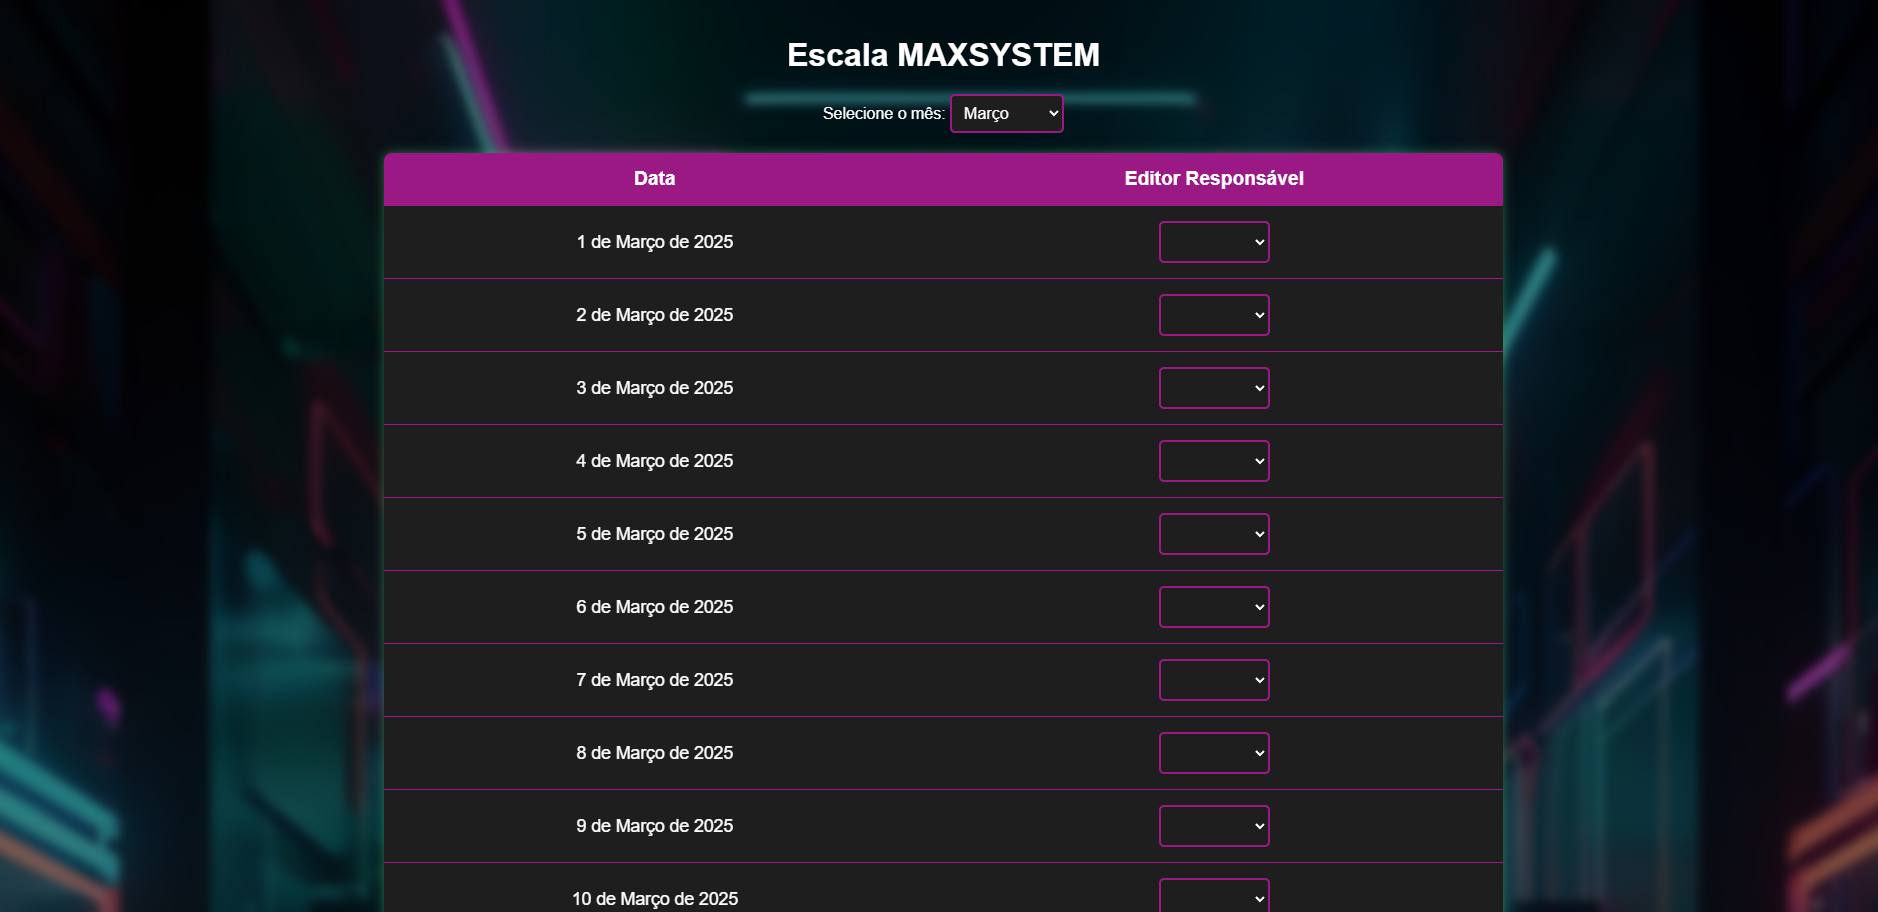
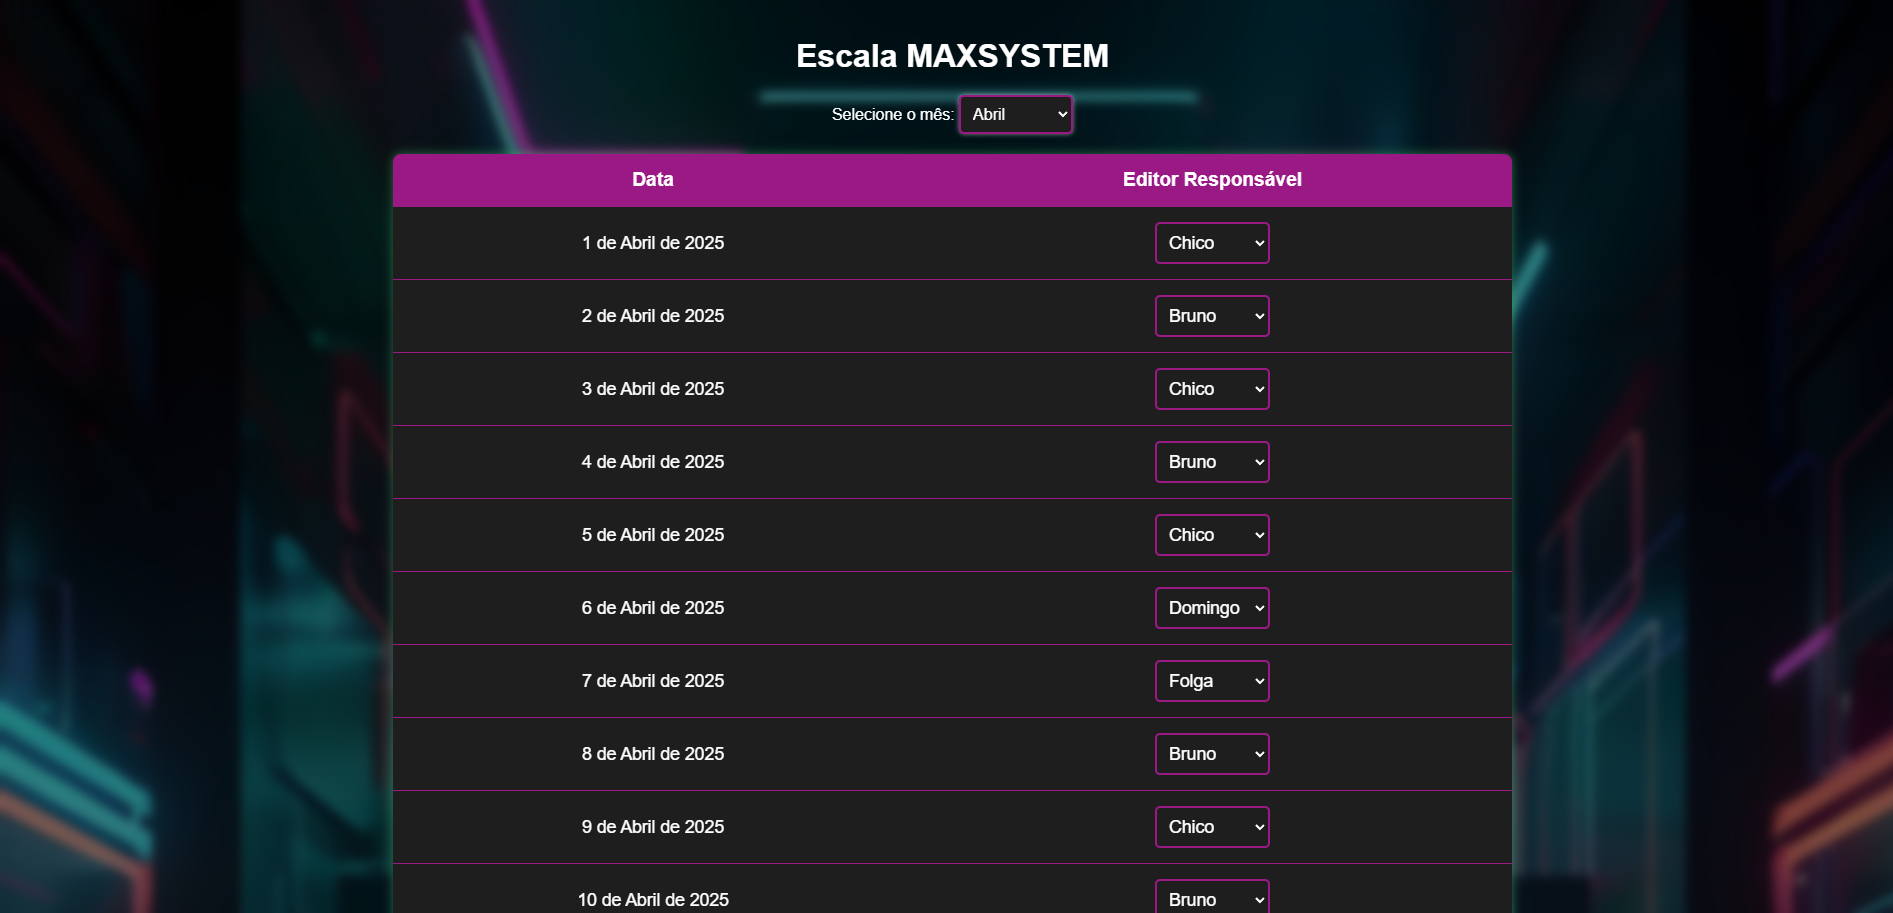
projeto fila add

diff --git a/projetos.html b/projetos.html
@@ -137,6 +137,18 @@
             >Acessar</a>
           <a href="https://github.com/Dev-BrunoOliveira/LARANJODINA" target="_blank" class="btn">Repositório</a>
         </div>
+        <div class="card">
+          <img src="./IMG/FILA.png" alt="fila-editores" />
+          <h3>Fila de Editores</h3>
+          <p> Através dessa fila organizei a ordem dos editores que sobem o material produzido para o sistema, utilizando Frontend e Backend.
+            Utilizei as seguintes linguagens HTML,CSS,Javascript,Vite e o Firebase.
+          </p>
+          <a
+            href="https://filamaxsystem.vercel.app/"
+            target="_blank"
+            class="btn"
+            >Acessar</a>
+          <a href="https://github.com/Dev-BrunoOliveira/FILAMAXSYSTEM" target="_blank" class="btn">Repositório</a>
       </div>
     </section>
     <script src="./script.js"></script>
